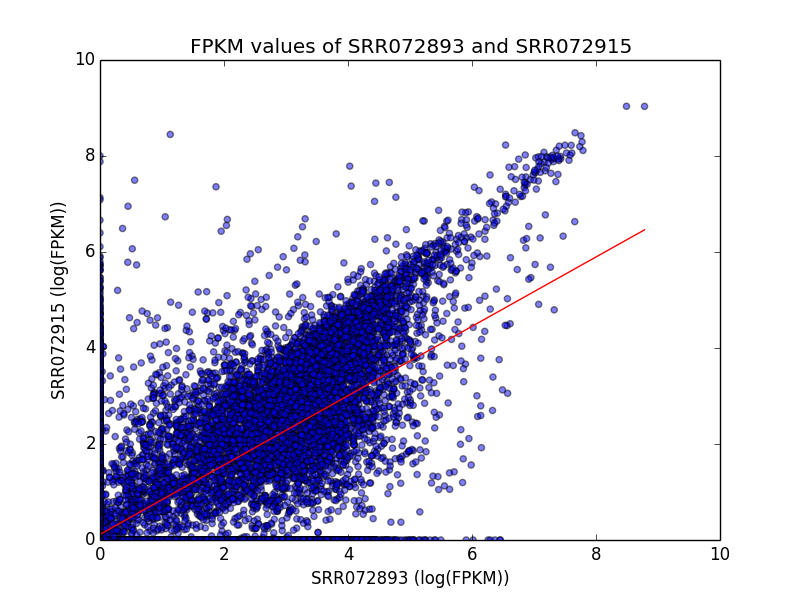
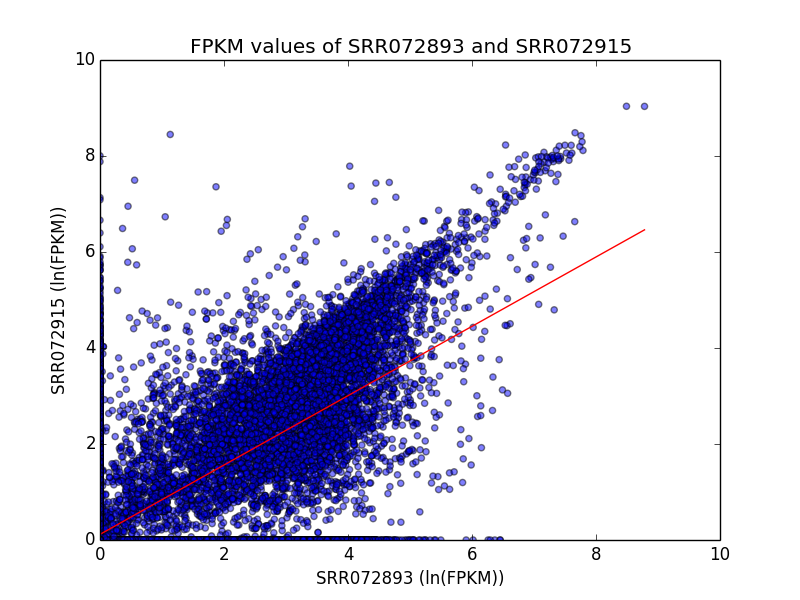
Update to clarify ln

Changed region(s): [[0.375, 0.93, 0.625, 0.99], [0.0625, 0.33, 0.0938, 0.66]]

diff --git a/day4-lunch/xy_scatterplot.py b/day4-lunch/xy_scatterplot.py
@@ -28,12 +28,9 @@ plt.plot(new_x, new_y, "r")
 
 plt.title("FPKM values of SRR072893 and SRR072915")
 
-plt.xlabel("SRR072893 (log(FPKM))")
-plt.ylabel("SRR072915 (log(FPKM))")
-#plt.xscale("log")
-#plt.yscale("log")
+plt.xlabel("SRR072893 (ln(FPKM))")
+plt.ylabel("SRR072915 (ln(FPKM))")
 plt.xlim(0, 10)
 plt.ylim(0, 10)
-
 plt.savefig(sys.argv[3] + ".png")
 plt.close()
